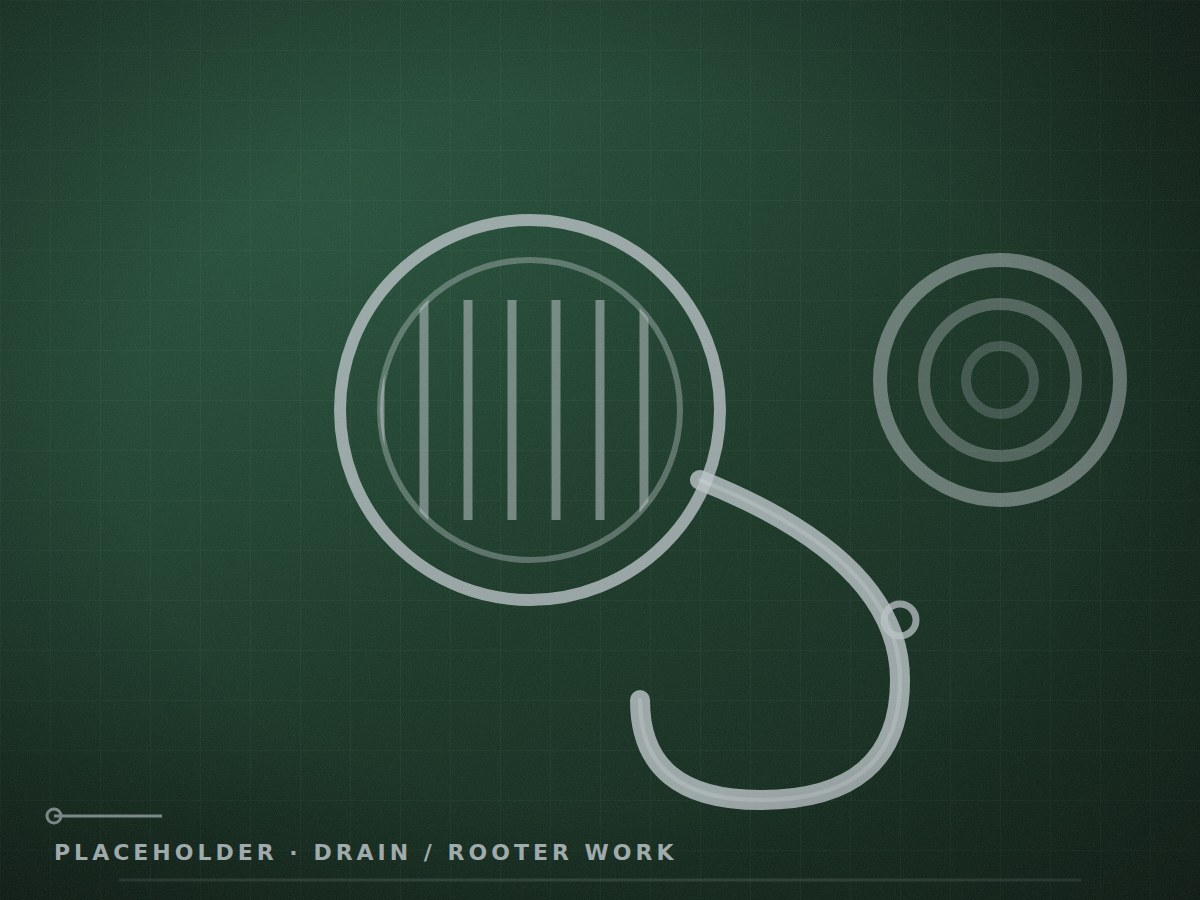
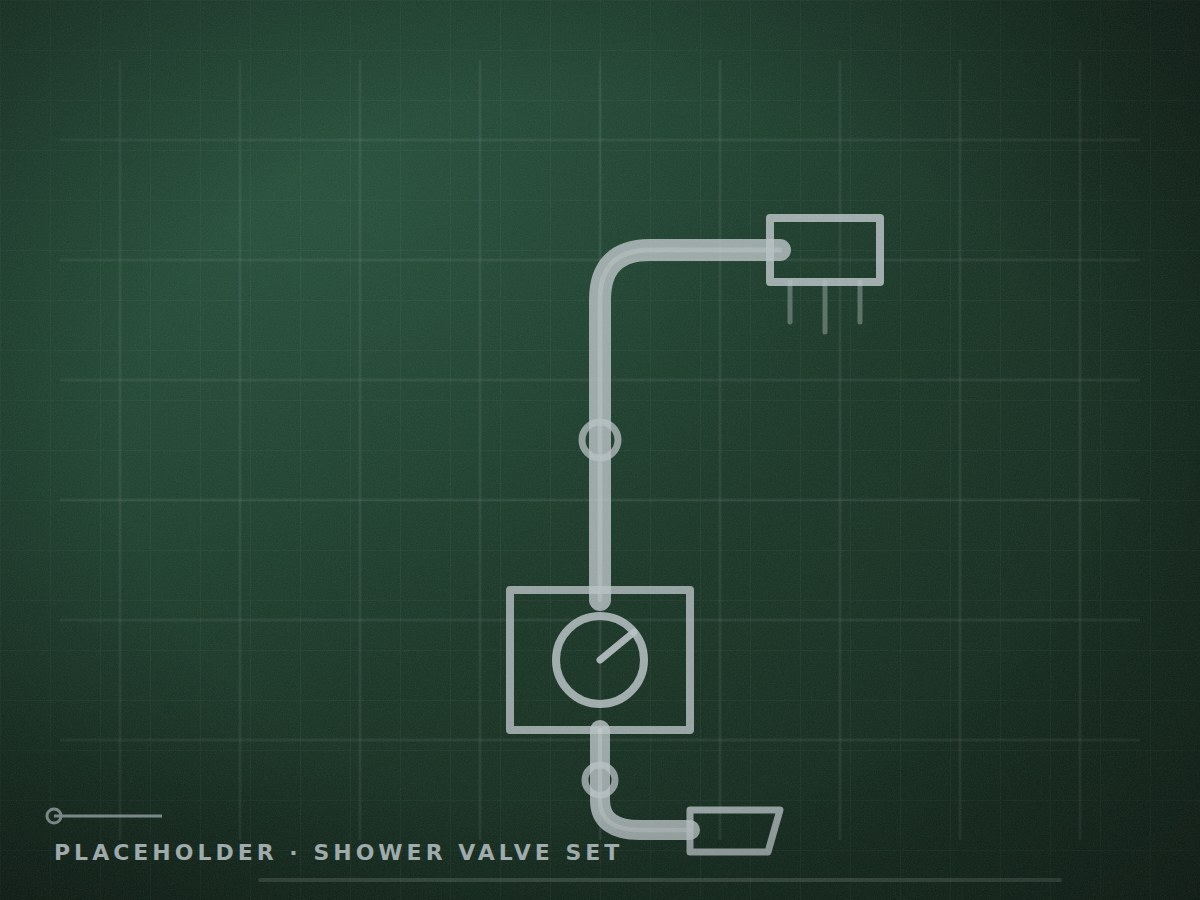
Remove repiping and drain cleaning: services the client does not offer
Melvin confirmed he does not do repipes or drainage cleaning / main line
work. Cutting both from the site.

Repiping, removed from 3 places:
- Home, remodels card: dropped "re-pipes" from the service list
- Services, remodels copy: "whole-house re-pipe" -> "full gut and rebuild"
- Services, remodels bullets: dropped "Whole or partial re-piping"

Drain cleaning / main line, removed from 6 places:
- Home, repairs card: dropped "clogged drains"
- Home, maintenance card: dropped "drain cleaning"
- Services, repairs bullets: dropped "Clogged drains and stoppages"
- Services, maintenance bullets: dropped "Drain cleaning"
- Services, maintenance copy: dropped drains from the yearly inspection list
- Services meta description: "leak and drain repair" -> "leak and pipe repair"

Gallery tile 5 was a floor drain with a rooter cable, so the alt text alone
was not enough — the placeholder art is now a shower riser, valve trim and
tub spout, which is remodel work he does do.

Drain and vent lines are deliberately kept in the remodel sections
(rough-in and relocation). That is installing drain lines for a new layout,
not cleaning or clearing them, and a bathroom remodel cannot be described
without it.

Also fixes a latent hazard in tools/generate-placeholder-images.py: its
manifest still listed the hero and all three service slots, so running it
overwrote the real client photos with placeholder art and recreated the
deleted hero. It now covers only the six gallery slots that still hold
[…]

Changed region(s): [[0.2467, 0.2178, 0.9558, 0.9644]]

diff --git a/services.html b/services.html
@@ -6,7 +6,7 @@
 <title>Plumbing Remodels, Repairs &amp; Maintenance | MELS PLUMBING</title>
 <meta name="description" content="Plumbing remodels, repairs and maintenance in Escondido, Vista, Murrieta and Temecula. Licensed, insured and veteran owned — CSLB #1151227. Call (760) 317-0740.">
 <meta property="og:title" content="Plumbing Remodels, Repairs &amp; Maintenance | MELS PLUMBING">
-<meta property="og:description" content="Remodel rough-in, leak and drain repair, water heaters and preventative maintenance across North San Diego County and the Temecula Valley.">
+<meta property="og:description" content="Remodel rough-in, leak and pipe repair, water heaters and preventative maintenance across North San Diego County and the Temecula Valley.">
 <meta property="og:type" content="website">
 <meta property="og:site_name" content="MELS PLUMBING">
 <meta name="theme-color" content="#1E4632">
@@ -68,11 +68,10 @@
           <span class="service-row__num">01 &mdash; Remodels</span>
           <h2>Plumbing remodels</h2>
           <p>A remodel goes sideways when the plumbing is treated as an afterthought. We come in early, look at where your drains and supply lines actually run, and tell you what your new layout will take before the tile goes down.</p>
-          <p>Kitchen or bathroom, a single fixture move or a whole-house re-pipe, you get the same thing: work that passes inspection and a schedule we hold to, so the other trades are not left standing around.</p>
+          <p>Kitchen or bathroom, a single fixture move or a full gut and rebuild, you get the same thing: work that passes inspection and a schedule we hold to, so the other trades are not left standing around.</p>
           <ul class="task-list">
             <li>Kitchen and bathroom rough-in</li>
             <li>Fixture and faucet installation</li>
-            <li>Whole or partial re-piping</li>
             <li>Drain and vent line relocation</li>
             <li>Shower valve and tub sets</li>
             <li>New construction plumbing</li>
@@ -97,7 +96,6 @@
           <p>You approve the price before we start. If the honest answer is that a fixture is worth replacing instead of repairing, we will tell you that and let you make the call.</p>
           <ul class="task-list">
             <li>Leak detection and pipe repair</li>
-            <li>Clogged drains and stoppages</li>
             <li>Water heater repair and replacement</li>
             <li>Garbage disposal repair</li>
             <li>Toilet repair and replacement</li>
@@ -119,11 +117,10 @@
         <div class="service-row__body reveal" data-delay="1">
           <span class="service-row__num">03 &mdash; Maintenance</span>
           <h2>Plumbing maintenance</h2>
-          <p>The cheapest plumbing problem is the one caught early. A yearly look at your supply lines, angle stops, water heater and drains is what keeps a flooded hallway from ever happening.</p>
+          <p>The cheapest plumbing problem is the one caught early. A yearly look at your supply lines, angle stops and water heater is what keeps a flooded hallway from ever happening.</p>
           <p>Landlords and property managers: we can run the same checklist across every unit and hand you one clear report on what needs attention now and what can wait until next year.</p>
           <ul class="task-list">
             <li>Preventative plumbing inspections</li>
-            <li>Drain cleaning</li>
             <li>Water heater flush and inspection</li>
             <li>Angle stop and supply line checks</li>
             <li>Seasonal checkups for rentals</li>

diff --git a/index.html b/index.html
@@ -90,7 +90,7 @@
           </div>
           <div class="card__body">
             <h3>Plumbing remodels</h3>
-            <p>Kitchen and bathroom remodels, re-pipes, layout changes and new construction. We rough in the water and drain lines, set your fixtures, and leave the walls ready for the next trade.</p>
+            <p>Kitchen and bathroom remodels, layout changes and new construction. We rough in the water and drain lines, set your fixtures, and leave the walls ready for the next trade.</p>
             <a class="link-arrow" href="services.html#remodels">Learn more <span aria-hidden="true">&rarr;</span></a>
           </div>
         </article>
@@ -101,7 +101,7 @@
           </div>
           <div class="card__body">
             <h3>Plumbing repairs</h3>
-            <p>Leaks, clogged drains, water heaters, garbage disposals, toilets, faucets and damaged pipe. We track down what is actually causing the problem, quote it, then fix it.</p>
+            <p>Leaks, water heaters, garbage disposals, toilets, faucets and damaged pipe. We track down what is actually causing the problem, quote it, then fix it.</p>
             <a class="link-arrow" href="services.html#repairs">Learn more <span aria-hidden="true">&rarr;</span></a>
           </div>
         </article>
@@ -112,7 +112,7 @@
           </div>
           <div class="card__body">
             <h3>Plumbing maintenance</h3>
-            <p>Preventative inspections, drain cleaning, water heater flushes and seasonal checkups. Small problems get caught early, which is far cheaper than the emergency call at midnight.</p>
+            <p>Preventative inspections, water heater flushes and seasonal checkups. Small problems get caught early, which is far cheaper than the emergency call at midnight.</p>
             <a class="link-arrow" href="services.html#maintenance">Learn more <span aria-hidden="true">&rarr;</span></a>
           </div>
         </article>

diff --git a/gallery.html b/gallery.html
@@ -81,8 +81,8 @@
           </button>
         </li>
         <li class="gallery-item">
-          <button type="button" data-lightbox="images/gallery-5.jpg" aria-label="Open larger image: drain line cleared during a rooter service call">
-            <img src="images/gallery-5.jpg" alt="Drain line cleared during a rooter service call" width="1200" height="900" loading="lazy" decoding="async">
+          <button type="button" data-lightbox="images/gallery-5.jpg" aria-label="Open larger image: new shower valve and tub spout set during a bathroom remodel">
+            <img src="images/gallery-5.jpg" alt="New shower valve and tub spout set during a bathroom remodel" width="1200" height="900" loading="lazy" decoding="async">
           </button>
         </li>
         <li class="gallery-item">

diff --git a/tools/generate-placeholder-images.py b/tools/generate-placeholder-images.py
@@ -240,23 +240,28 @@ def scene_faucet():
     ])
 
 
-def scene_drain():
-    """Drain cleaning: floor drain grate and a coiled cable."""
-    grate = "".join(
-        f'<path d="M{380 + i * 44} 300 V520" stroke="{SILVER}" stroke-opacity="0.55" stroke-width="9"/>'
-        for i in range(8)
+def scene_shower_valve():
+    """Bathroom remodel: shower riser, valve body and tub spout on a tiled wall."""
+    tiles = "".join(
+        f'<path d="M{x} 60 V840" stroke="{SILVER}" stroke-opacity="0.09" stroke-width="3"/>'
+        for x in range(120, 1140, 120)
+    ) + "".join(
+        f'<path d="M60 {y} H1140" stroke="{SILVER}" stroke-opacity="0.09" stroke-width="3"/>'
+        for y in range(140, 860, 120)
     )
-    return "".join([
-        f'<circle cx="530" cy="410" r="190" fill="none" stroke="{SILVER}" stroke-opacity="0.8" stroke-width="12"/>',
-        f'<circle cx="530" cy="410" r="150" fill="none" stroke="{SILVER}" stroke-opacity="0.4" stroke-width="6"/>',
-        f'<clipPath id="grateClip"><circle cx="530" cy="410" r="150"/></clipPath>',
-        f'<g clip-path="url(#grateClip)">{grate}</g>',
-        pipe("M700 480 Q900 560 900 680 Q900 800 760 800 Q640 800 640 700", 20),
-        collar(900, 620, 16),
-        f'<circle cx="1000" cy="380" r="120" fill="none" stroke="{SILVER}" stroke-opacity="0.5" stroke-width="14"/>',
-        f'<circle cx="1000" cy="380" r="76" fill="none" stroke="{SILVER}" stroke-opacity="0.35" stroke-width="12"/>',
-        f'<circle cx="1000" cy="380" r="34" fill="none" stroke="{SILVER}" stroke-opacity="0.25" stroke-width="10"/>',
-        outline("M120 880 H1080", 3, 0.18),
+    return tiles + "".join([
+        pipe("M600 600 V300 Q600 250 650 250 H780", 22),      # riser up to the shower arm
+        collar(600, 440, 18),
+        outline("M770 218 H880 V282 H770 Z", 8, 0.85),        # shower head
+        outline("M790 282 V322 M825 282 V332 M860 282 V322", 5, 0.4),
+        outline("M510 590 H690 V730 H510 Z", 8, 0.8),         # valve trim plate
+        f'<circle cx="600" cy="660" r="44" fill="none" stroke="{SILVER}" '
+        f'stroke-opacity="0.85" stroke-width="8"/>',
+        outline("M600 660 L634 632", 7, 0.9),                 # handle
+        pipe("M600 730 V800 Q600 830 640 830 H690", 20),      # drop to the tub spout
+        collar(600, 780, 15),
+        outline("M690 810 H780 L768 852 H690 Z", 7, 0.8),     # spout
+        outline("M260 880 H1060", 4, 0.22),                   # tub rim
     ])
 
 
@@ -281,16 +286,19 @@ def scene_kitchen():
 # Image manifest
 # ---------------------------------------------------------------------------
 
+# ONLY the slots that still hold placeholders.
+#
+# Do NOT add hero.jpg or the three service-*.jpg entries back. The hero is a
+# solid green gradient with no photo at all, and the service images hold real
+# client photos — regenerating them would overwrite the client's work with
+# placeholder art. The scene_hero/remodel/repair/maintenance functions are kept
+# below only so the earlier plates can be rebuilt by hand if ever needed.
 IMAGES = [
-    ("hero.jpg", 2000, 1250, "Rough-in / supply lines", scene_hero),
-    ("service-remodel.jpg", 1200, 900, "Remodel — vanity set", scene_remodel),
-    ("service-repair.jpg", 1200, 900, "Repair — leak at union", scene_repair),
-    ("service-maintenance.jpg", 1200, 900, "Maintenance — water heater", scene_maintenance),
     ("gallery-1.jpg", 1200, 900, "Bathroom remodel", scene_bath_finished),
     ("gallery-2.jpg", 1200, 900, "Water heater install", scene_water_heater_2),
     ("gallery-3.jpg", 1200, 900, "Copper pipe run", scene_copper_run),
     ("gallery-4.jpg", 1200, 900, "Kitchen faucet", scene_faucet),
-    ("gallery-5.jpg", 1200, 900, "Drain / rooter work", scene_drain),
+    ("gallery-5.jpg", 1200, 900, "Shower valve set", scene_shower_valve),
     ("gallery-6.jpg", 1200, 900, "Finished kitchen", scene_kitchen),
 ]
 
@@ -413,7 +421,7 @@ def main():
         for line in failures:
             print("  - " + line)
         sys.exit(1)
-    print("\nAll 10 images generated.")
+    print(f"\nAll {len(IMAGES)} placeholder images generated.")
 
 
 if __name__ == "__main__":

diff --git a/IMAGES-NEEDED.md b/IMAGES-NEEDED.md
@@ -54,7 +54,7 @@ load behaviour on the preview are exactly what you'll get with real photos.
 | `images/gallery-2.jpg` | Home teaser + Gallery | Water heater installed, strapped and piped to code | Generated plate — water heater install with expansion tank | 1200 × 900 (4:3) | Generated locally |
 | `images/gallery-3.jpg` | Home teaser + Gallery | Copper or PEX runs through studs — clean rough-in work | Generated plate — copper run through framing | 1200 × 900 (4:3) | Generated locally |
 | `images/gallery-4.jpg` | Gallery | Modern kitchen or bath faucet, newly installed | Generated plate — gooseneck kitchen faucet | 1200 × 900 (4:3) | Generated locally |
-| `images/gallery-5.jpg` | Gallery (large tile) | Drain or rooter work — cleared line, cable, floor drain | Generated plate — floor drain with rooter cable | 1200 × 900 (4:3) | Generated locally |
+| `images/gallery-5.jpg` | Gallery (large tile) | Shower valve, tub spout or fixture set during a remodel. **Not drain or rooter work** — the client does not offer drain cleaning or main line service. | Generated plate — shower riser, valve trim and tub spout | 1200 × 900 (4:3) | Generated locally |
 | `images/gallery-6.jpg` | Gallery | Finished kitchen or bath — wide "after" shot | Generated plate — kitchen sink with supply lines | 1200 × 900 (4:3) | Generated locally |
 
 ---
